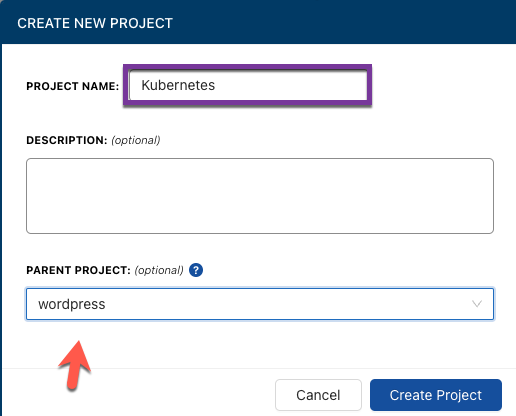
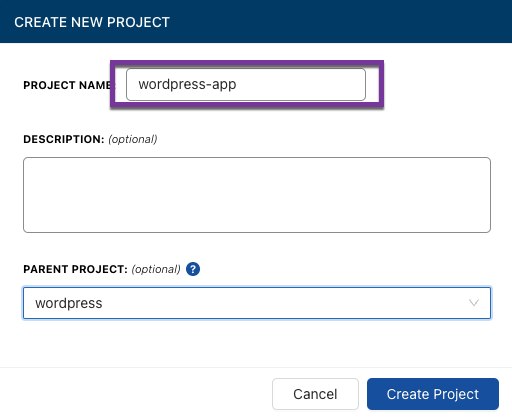
project config

Changed region(s): [[0.0, 0.0312, 1.0, 1.0], [0.5312, 0.9062, 0.9688, 1.0], [0.0938, 0.8125, 0.1875, 0.9375]]

diff --git a/cloudtruth_commands/project/readme.md b/cloudtruth_commands/project/readme.md
@@ -43,7 +43,7 @@ Click the blue `Create project` button
 
 ## Kubernetes Projects
 
-In this section, we'll do the same thing that we need in the **Terraform Projects** section and create a child project.
+In this section, we'll do the same thing that we need in the **Terraform Projects** section, except we'll create two child projects
 
 1. Log into your CloudTruth portal and click on the `Projects` button
 
@@ -53,12 +53,16 @@ In this section, we'll do the same thing that we need in the **Terraform Project
 
 ![](images/2.png)
 
-3. Name your child project `Kubernetes` and ensure to select the `Wordpress` parent project.
+3. Name your child project `wordpress-app` and ensure to select the `wordpress` parent project.
 
 ![](images/5.png)
+
+4. Create another child project and call it `mysql-app` and ensure to select the `wordpress` parent project
+
+![](images/6.png)
 
 ## End Result
 
 Now that you have a parent project and two child projects, you should see the project hierchy similiar to the screenshot below.
 
-![](images/6.png)
+![](images/7.png)
